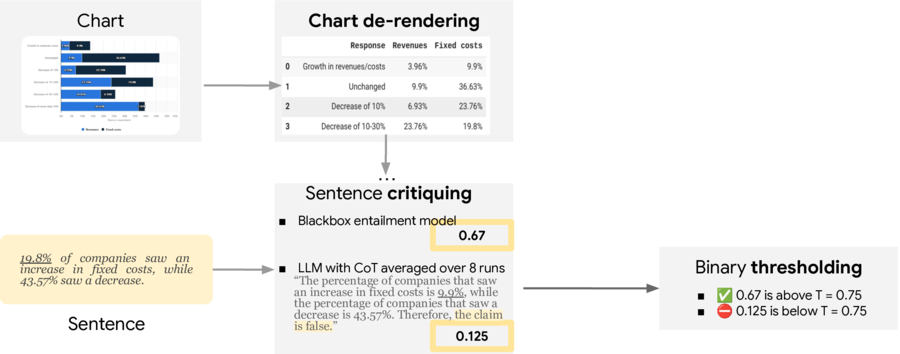
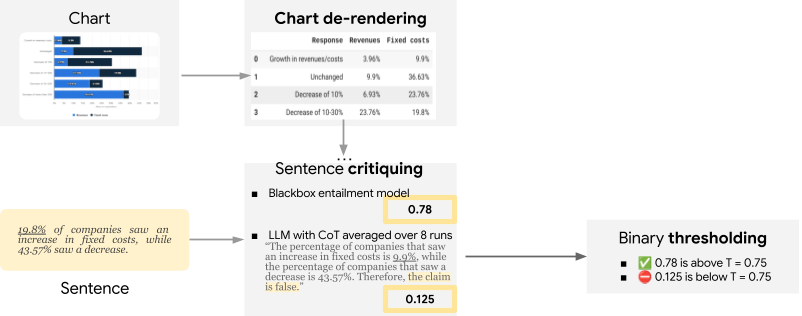
pix2struct

diff --git a/thesis/index.html b/thesis/index.html
@@ -128,17 +128,12 @@
           <div class="roadmap-item ch-charts"><span>Ch 4</span> Charts</div>
           <div class="roadmap-arrow">→</div>
           <div class="roadmap-item ch-uncert"><span>Ch 5</span> Uncertainty</div>
-          <div class="roadmap-arrow">→</div>
-          <div class="roadmap-item ch-vocab"><span>Ch 6</span> Vocabulary</div>
-          <div class="roadmap-arrow">→</div>
-          <div class="roadmap-item ch-time"><span>Ch 7</span> Time</div>
         </div>
         <p class="roadmap-note">Each chapter <em>incorporates</em> a new dimension into language models</p>
         <aside class="notes">
           Here's the roadmap. After a foundations chapter, each subsequent chapter incorporates a new modality or dimension.
           We begin with tables — learning to encode 2D structure — then move to charts, where the data lives in pixels.
           From there we ask: even when models are accurate, can we trust them? That's the uncertainty chapter.
-          Finally, the last two chapters tackle how language itself changes: new words emerge and facts expire over time.
           Each chapter builds on insights from the previous one, and together they form a progression from structured data to
           reliable, adaptive models.
         </aside>
@@ -301,7 +296,6 @@
       <section>
         <h2 class="section-title">Incorporating Tables<br>into Models</h2>
         <p class="section-chapter">Chapter 3</p>
-        <p class="section-papers">EMNLP 2020 · EMNLP 2021 · EMNLP 2022 · ACL 2024</p>
         <aside class="notes">
           Let's start with Chapter 3 on tables — this is where the thesis began.
           The question is simple: how do we make a language model understand tabular data?
@@ -497,7 +491,6 @@
       <section>
         <h2 class="section-title">Incorporating Charts<br>into Models</h2>
         <p class="section-chapter">Chapter 4</p>
-        <p class="section-papers">ACL 2023 (×2) · ACL 2024</p>
         <aside class="notes">
           Chapter 4 moves from structured text to truly visual inputs: charts and plots.
           Here we face an additional challenge — the data is embedded in pixels, not text tokens.
@@ -556,6 +549,37 @@
           visual encodings — bar heights, line slopes, pie slices.
           Math reasoning: we take the MATH and DROP datasets and render the questions as images, so the model learns numerical
           computation in the visual domain. This is essential for answering quantitative questions about charts.
+        </aside>
+      </section>
+
+      <section>
+        <h2>Pix2Struct: The Backbone Architecture</h2>
+        <p class="subtitle">Screenshot parsing as pre-training for visually-situated language</p>
+        <img src="imgs/pix2struct.png" alt="Pix2Struct variable-resolution input pipeline" class="fig-large">
+        <p class="fig-caption">Variable-resolution inputs: screenshots are scaled preserving aspect ratio, then split into fixed-size patches fed as a sequence to a Vision Transformer encoder</p>
+        <div class="columns fragment">
+          <div class="col">
+            <div class="method-box">
+              <h4>Key Innovation</h4>
+              <p>Variable-resolution input: instead of resizing to a fixed square, preserve the original aspect ratio and extract a variable number of patches</p>
+            </div>
+          </div>
+          <div class="col">
+            <div class="method-box accent">
+              <h4>Why It Matters for Charts</h4>
+              <p>Charts come in all shapes — tall bar charts, wide timelines, square pie charts. Fixed resizing distorts fine-grained visual details like axis labels and legends</p>
+            </div>
+          </div>
+        </div>
+        <aside class="notes">
+          Before diving into MatCha's results, let me explain the architecture it builds on.
+          Pix2Struct is an image-to-text model based on Vision Transformer — it takes a screenshot, splits it into patches, and feeds them to a Transformer encoder-decoder.
+          The key innovation shown in this figure is variable-resolution input handling.
+          Standard ViT models resize all images to a fixed square — say 224×224. But charts come in all aspect ratios: tall bar charts, wide timelines, square pie charts.
+          Pix2Struct instead preserves the original aspect ratio, scales the image, and extracts a variable number of fixed-size patches.
+          This is critical for chart understanding because resizing to a square would distort fine-grained visual details like axis tick labels, legend entries, and data point positions.
+          The model is pre-trained on a massive dataset of web screenshots paired with their simplified HTML — learning to parse visual layouts from the web.
+          MatCha then takes this pre-trained backbone and adds the chart-specific objectives we just discussed.
         </aside>
       </section>
 
@@ -679,7 +703,6 @@
       <section>
         <h2 class="section-title">Incorporating Multimodal<br>Uncertainty</h2>
         <p class="section-chapter">Chapter 5</p>
-        <p class="section-papers">EMNLP 2023 · ACL 2024</p>
         <aside class="notes">
           Chapter 5 asks a different question: even when models are accurate, can we trust their answers?
           High accuracy on benchmarks doesn't mean the model knows when it's wrong.
@@ -817,9 +840,9 @@
       </section>
 
       <!-- ============================================================ -->
-      <!-- PART 5: VOCABULARY -->
+      <!-- PART 5: VOCABULARY (hidden for defense) -->
       <!-- ============================================================ -->
-
+      <template>
       <section>
         <h2 class="section-title">Incorporating Novel<br>Vocabulary</h2>
         <p class="section-chapter">Chapter 6</p>
@@ -942,11 +965,12 @@
           If models can't handle new words, can they handle changing facts? That's what we explore next.
         </aside>
       </section>
-
+      </template>
 
       <!-- ============================================================ -->
-      <!-- PART 6: TIME -->
+      <!-- PART 6: TIME (hidden for defense) -->
       <!-- ============================================================ -->
+      <template>
 
       <section>
         <h2 class="section-title">Incorporating<br>Time-Stamped Facts</h2>
@@ -1091,6 +1115,7 @@
           This completes the technical contributions. Let me now discuss limitations before summarising the thesis-level findings.
         </aside>
       </section>
+      </template>
 
       <!-- ============================================================ -->
       <!-- PART 7: CONCLUSION -->
@@ -1144,7 +1169,8 @@
             <span class="obj-num">1</span>
             <div>
               <h4>Richer Visual Encoding</h4>
-              <p>Beyond text: colors, spatial attributes, visual grammars for comics and infographics</p>
+              <p>Beyond text: colors, spatial attributes, visual grammars for comics and infographics, caligrams, and concept trees
+              </p>
             </div>
           </div>
           <div class="objective">
@@ -1166,7 +1192,9 @@
         <aside class="notes">
           Three directions for future work.
           First, richer encoding: charts use color, spatial layout, and visual conventions that we don't fully capture yet. Comics
-          and infographics have their own visual grammars.
+          and infographics have their own visual grammars, and so do caligrams and concept trees — structured visual
+          representations
+          that combine text and imagery in ways our current models don't handle well.
           Second, better data: real-world visual language is messy, multilingual, and domain-specific. Current benchmarks don't
           capture this.
           Third, closing the loop: if generation aids understanding, then models that can generate good visualizations demonstrate
@@ -1182,18 +1210,15 @@
               <div class="bp-row">
                 <div class="bp-box ch-tables">Ch 3: Tables<br><span>TAPAS · MATE · TabT5</span></div>
                 <div class="bp-box ch-charts">Ch 4: Charts<br><span>MatCha · DePlot · ChaTS-Pi</span></div>
+                <div class="bp-box ch-uncert">Ch 5: Uncertainty<br><span>Avg BLEU · Selective QA</span></div>
               </div>
               <div class="bp-center">Incorporating Structured Content</div>
-              <div class="bp-row">
-                <div class="bp-box ch-uncert">Ch 5: Uncertainty<br><span>Avg BLEU · Selective QA</span></div>
-                <div class="bp-box ch-vocab-time">Ch 6–7: Adaptation<br><span>WinoDict · TimeLM</span></div>
-              </div>
             </div>
             <blockquote class="fragment feynman">"What I cannot create, I do not understand"</blockquote>
             <aside class="notes">
-              Here's the big picture. The four quadrants correspond to the four research threads.
+              Here's the big picture. The three pillars correspond to the main research threads.
               Tables and charts are about incorporating structured visual content.
-              Uncertainty and adaptation are about making models reliable and robust over time.
+              Uncertainty is about making models reliable — knowing when to trust their answers.
               [>>>]
               Together, they form a comprehensive research program for incorporating structured content into language models.
               The Feynman quote captures the unifying principle: generation is the key to understanding.
@@ -1213,8 +1238,8 @@
               </div>
               <div class="learning fragment">
                 <h4>⚡ Specialised Models Matter</h4>
-                <p>MatCha (300M) beats PaLI (17B) — and today's SOTA models with 100s of billions of params are often trained
-                  using annotations from smaller expert models</p>
+                <p>MatCha (300M) beats PaLI (17B) — and today's SOTA models with 100B+ params are often use annotations from smaller
+                  expert models</p>
               </div>
               <div class="learning fragment">
                 <h4>🎯 Beyond Benchmarks</h4>
@@ -1250,55 +1275,47 @@
       <!-- ============================================================ -->
 
       <section>
-        <h2>Publications &amp; Open Source</h2>
-        <div class="papers-list">
-          <div class="paper"><span class="venue">EMNLP 2020</span> <a
-              href="https://aclanthology.org/2020.findings-emnlp.27" target="_blank">Understanding Tables with
-              Intermediate Pre-training</a></div>
-          <div class="paper"><span class="venue">EMNLP 2021</span> <a
-              href="https://aclanthology.org/2021.emnlp-main.600" target="_blank">MATE: Multi-view Attention for Table
-              Transformer Efficiency</a></div>
-          <div class="paper"><span class="venue">EMNLP 2022</span> <a
-              href="https://aclanthology.org/2022.findings-emnlp.503" target="_blank">Table-to-Text Generation and
-              Pre-training with TabT5</a></div>
-          <div class="paper"><span class="venue">TACL 2022</span> <a href="https://aclanthology.org/2022.tacl-1.15"
-              target="_blank">Time-Aware Language Models as Temporal Knowledge Bases</a></div>
-          <div class="paper"><span class="venue">ACL 2023</span> <a href="https://aclanthology.org/2023.acl-long.714"
-              target="_blank">MatCha: Enhancing Visual Language with Math &amp; Chart De-rendering</a></div>
-          <div class="paper"><span class="venue">ACL 2023</span> <a
-              href="https://aclanthology.org/2023.findings-acl.660" target="_blank">DePlot: One-shot Visual Reasoning by
-              Plot-to-Table Translation</a></div>
-          <div class="paper"><span class="venue">EACL 2023</span> <a href="https://aclanthology.org/2023.eacl-main.7"
-              target="_blank">WinoDict: Probing LMs for In-Context Word Acquisition</a> 🏆</div>
-          <div class="paper"><span class="venue">EMNLP 2023</span> <a href="https://aclanthology.org/2023.emnlp-main.35"
-              target="_blank">Selectively Answering Ambiguous Questions</a></div>
-          <div class="paper"><span class="venue">ACL 2024</span> <a href="https://aclanthology.org/2024.acl-long.472/"
-              target="_blank">Faithful Chart Summarization with ChaTS-Pi</a></div>
-          <div class="paper"><span class="venue">ACL 2024</span> <a
-              href="https://aclanthology.org/2024.findings-acl.250/" target="_blank">Selectively Answering Visual
-              Questions</a></div>
+        <h2>Open Source Impact</h2>
+        <div class="columns">
+          <div class="col">
+            <h4>💻 Code Repositories</h4>
+            <div class="small">⭐ 1.2k stars · 216 forks</div>
+            <ul>
+              <li><a href="https://github.com/google-research/tapas" target="_blank"
+                  style="color:var(--accent);">google-research/tapas</a>
+              </li>
+              <li><a href="https://github.com/google-research/google-research/tree/master/deplot" target="_blank"
+                  style="color:var(--accent);">google-research/deplot</a></li>
+              <li><a href="https://github.com/eisenjulian/avg-bleu" target="_blank"
+                  style="color:var(--accent);">eisenjulian/avg-bleu</a></li>
+            </ul>
+          </div>
+          <div class="col">
+            <h4>🤗 Models on Hugging Face</h4>
+            <div class="small">110k+ downloads · 20+ variants</div>
+            <ul>
+              <li><a href="https://huggingface.co/google/tapas-base" target="_blank"
+                  style="color:var(--accent);">google/tapas-*</a>
+              </li>
+              <li><a href="https://huggingface.co/google/deplot" target="_blank" style="color:var(--accent);">google/deplot</a>
+              </li>
+              <li><a href="https://huggingface.co/google/matcha-base" target="_blank"
+                  style="color:var(--accent);">google/matcha-*</a></li>
+              <li><a href="https://hf.co/spaces/chats-pi/chats-pi" target="_blank" style="color:var(--accent);">🤗 ChaTS-Pi
+                  demo</a></li>
+            </ul>
+          </div>
         </div>
-        <div style="margin-top:0.6em; display:flex; flex-wrap:wrap; gap:0.4em 1em; font-size:0.72em;">
-          <span>💻</span>
-          <a href="https://github.com/google-research/tapas" target="_blank"
-            style="color:var(--accent);">google-research/tapas</a>
-          <a href="https://github.com/google-research/google-research/tree/master/deplot" target="_blank"
-            style="color:var(--accent);">google-research/deplot</a>
-          <a href="https://github.com/eisenjulian/avg-bleu" target="_blank"
-            style="color:var(--accent);">eisenjulian/avg-bleu</a>
-          <a href="https://github.com/google-research/language/tree/master/language/wino_dict" target="_blank"
-            style="color:var(--accent);">google-research/wino_dict</a>
-          <a href="https://github.com/google-research/language/tree/master/language/templama" target="_blank"
-            style="color:var(--accent);">google-research/templama</a>
-          <a href="https://hf.co/spaces/chats-pi/chats-pi" target="_blank" style="color:var(--accent);">🤗 chats-pi</a>
-        </div>
+        <p class="fragment result-highlight">TAPAS is integrated into 🤗 Transformers — directly usable via
+          <code>pipeline("table-question-answering")</code>
+        </p>
         <aside class="notes">
-          Here are all 10 publications — spanning five years and multiple top venues — along with the open-source
-          repositories.
-          All code is publicly available. TAPAS alone has been cited over 1,000 times and is integrated into Hugging
-          Face Transformers.
-          I want to emphasize the open-source commitment: every model and dataset from this thesis is freely available
-          for the community.
+          All code and models from this thesis are publicly available.
+          The TAPAS repository has over 1,200 stars on GitHub, and across all variants the TAPAS models on Hugging Face
+          have been downloaded over 110,000 times.
+          TAPAS is natively integrated into the Hugging Face Transformers library, making it directly usable in just a few
+          lines of code.
+          MatCha, DePlot, and the ChaTS-Pi demo are also available as hosted models and interactive demos.
         </aside>
       </section>
 
